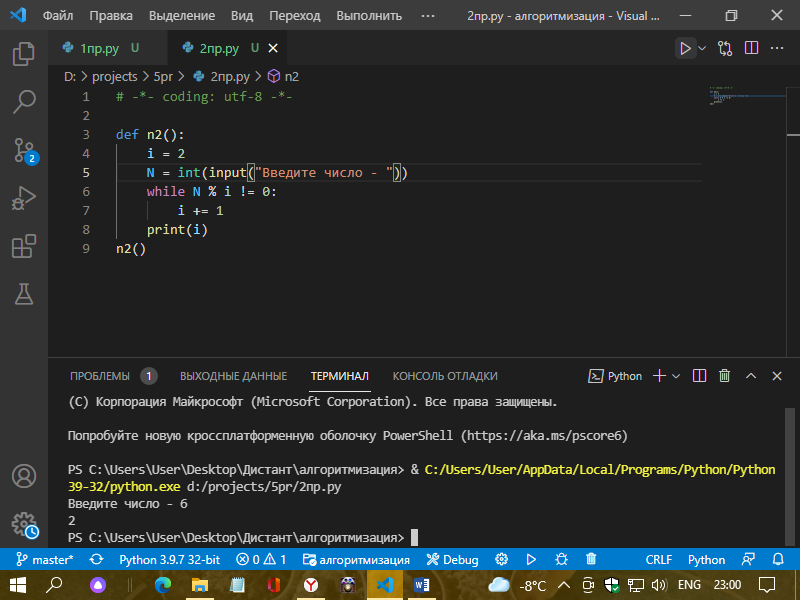
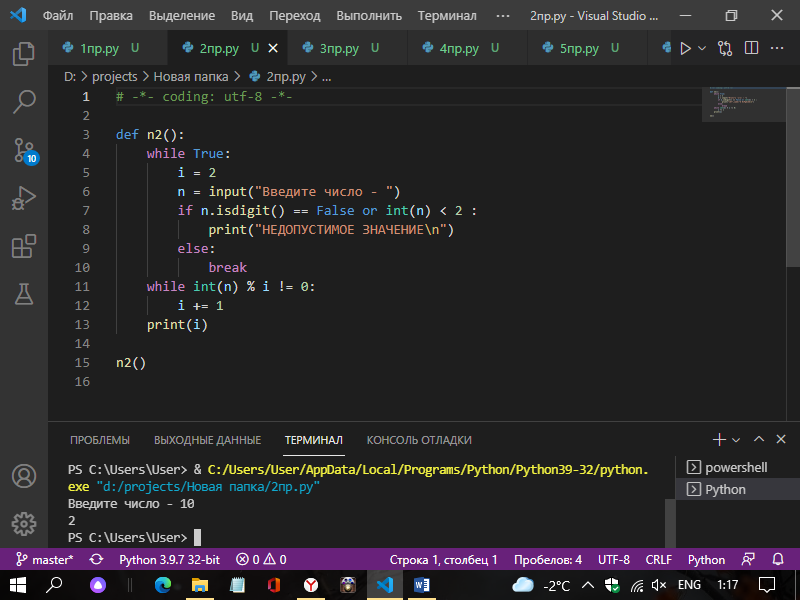
исправление

diff --git a/5pr/4пр.py b/5pr/4пр.py
@@ -1,11 +1,25 @@
 # -*- coding: utf-8 -*-
 
 def n4():
-    x = int(input("Введите первое число - "))
-    y = int(input("Введите второе число - "))
+    while True:
+        x = input("Введите число x - ")
+        if x.isdigit() == False:
+            print("НЕДОПУСТИМОЕ ЗНАЧЕНИЕ\n")
+        else:
+            break
+        
+    while True:
+        y = input("Введите число y - ")
+        if y.isdigit() == False:
+            print("НЕДОПУСТИМОЕ ЗНАЧЕНИЕ\n")
+        else:
+            break
+        
     counter = 1
-    while x < y:
+    x=int(x)
+    while x < int(y):
         x *= 1.1
         counter+=1
     print(counter)
+    
 n4()

diff --git a/5pr/3пр.py b/5pr/3пр.py
@@ -1,15 +1,20 @@
 # -*- coding: utf-8 -*-
 
 def n3():
-    i = 2
-    powContainer = 2
-    counter = 1
-    N = int(input("Введите число - "))
-
-    while powContainer * i < N:
+    while True:
+        i = 2
+        powContainer = 2
+        counter = 1
+        n = input("Введите число - ")
+        if n.isdigit() == False:
+            print("НЕДОПУСТИМОЕ ЗНАЧЕНИЕ\n")
+        else:
+            break
+        
+    while powContainer * i < int(n):
         powContainer *= i
         counter+=1
-    print(powContainer)
-    print(counter)
+    print(powContainer)  
+    print(counter)           
 
 n3()

diff --git a/3pr/9pr.py b/3pr/9pr.py
@@ -1,12 +1,15 @@
 # -*- coding: utf-8 -*-
 
-n = int (input("Номер элемента ряда Фибоначчи: " ))
-fib1 = 1
-fib2 = 1
-i = 0
-while i < n - 2:
-    fibsum = fib1 + fib2
-    fib1 = fib2
-    fib2 = fibsum
-    i = i + 1
-print("Значение этого элемента:", fib2)
+def s_f():
+    sum=0
+    N = int(input('N: '))
+    past_num = 0
+    present_num = 1
+    for i in range(2, N+1):
+        sum += present_num
+        time = present_num
+        present_num += past_num
+        past_num = time
+
+    return sum
+print(s_f())

diff --git a/5pr/7пр.py b/5pr/7пр.py
@@ -4,9 +4,15 @@ def n7():
     counter = 0
     loopCount = 0
     while True:
-        x = int(input("Введите число - "))
-        if x == 0:
-            break
+        while True:
+            x = input("Введите число - ")
+            if x.isdigit() == False:
+                print("НЕДОПУСТИМОЕ ЗНАЧЕНИЕ\n")
+            else:
+                break
+        x=int(x)
+        if x == 0:    
+            break           
         if(loopCount != 0):
             if(x > container):
                 counter += 1

diff --git a/5pr/6пр.py b/5pr/6пр.py
@@ -1,14 +1,18 @@
 # -*- coding: utf-8 -*-
 
 def n6():
-    k_num = 0
-    summ = 0
+    matr = []
     while True:
-        x = int(input("Число - "))
-        if x == 0:
+        i = 0
+        n = input("Введите число - ")
+        if n.isdigit() == False:
+            print("НЕДОПУСТИМОЕ ЗНАЧЕНИЕ\n")
             break
-        k_num += 1
-        summ += x
-    print(summ / k_num)
+        if n == "0":
+            break
+        else:
+            matr.append(int(n))
+
+    print(sum(matr)/len(matr))
 
 n6()

diff --git a/5pr/5пр.py b/5pr/5пр.py
@@ -1,7 +1,17 @@
+# -*- coding: utf-8 -*-
+
 def n5():
-    counter = 0
-    while int(input("Введите число - ")) != 0:
-        counter+=1
-    print(counter)
+    matr = []
+    while True:
+        i = 0
+        n = input("Введите число - ")
+        if n.isdigit() == False:
+            print("НЕДОПУСТИМОЕ ЗНАЧЕНИЕ\n")
+        if n == "0":
+            break
+        else:
+            matr.append(n)
+
+    print(len(matr))
 
 n5()

diff --git a/5pr/8пр.py b/5pr/8пр.py
@@ -5,7 +5,14 @@ def n8():
     maxStreak = 0
     loopCount = 0
     while True:
-        x = int(input("Введите число - "))
+        while True:
+            x = input("Введите число - ")
+            if x.isdigit() == False:
+                print("НЕДОПУСТИМОЕ ЗНАЧЕНИЕ\n")
+            else:
+                break
+        x=int(x)
+        
         if x == 0:
             break
         if(loopCount != 0):

diff --git a/5pr/2пр.py b/5pr/2пр.py
@@ -1,9 +1,15 @@
 # -*- coding: utf-8 -*-
 
 def n2():
-    i = 2
-    N = int(input("Введите число - "))
-    while N % i != 0:
+    while True:
+        i = 2
+        n = input("Введите число - ")
+        if n.isdigit() == False or int(n) < 2 :
+            print("НЕДОПУСТИМОЕ ЗНАЧЕНИЕ\n")
+        else:
+            break
+    while int(n) % i != 0:
         i += 1
     print(i)
+    
 n2()

diff --git a/5pr/1пр.py b/5pr/1пр.py
@@ -1,10 +1,16 @@
 # -*- coding: utf-8 -*-
 
 def n1():
-    i = 0
-    N = int(input("Введите число - "))
-    while i <= N:
+    while True:
+        i = 0
+        n = input("Введите число - ")
+        if n.isdigit() == False:
+            print("НЕДОПУСТИМОЕ ЗНАЧЕНИЕ\n")
+        else:
+            break
+    while i <= int(n):
         print(i * i)
         i+=1
 
 n1()
+   
